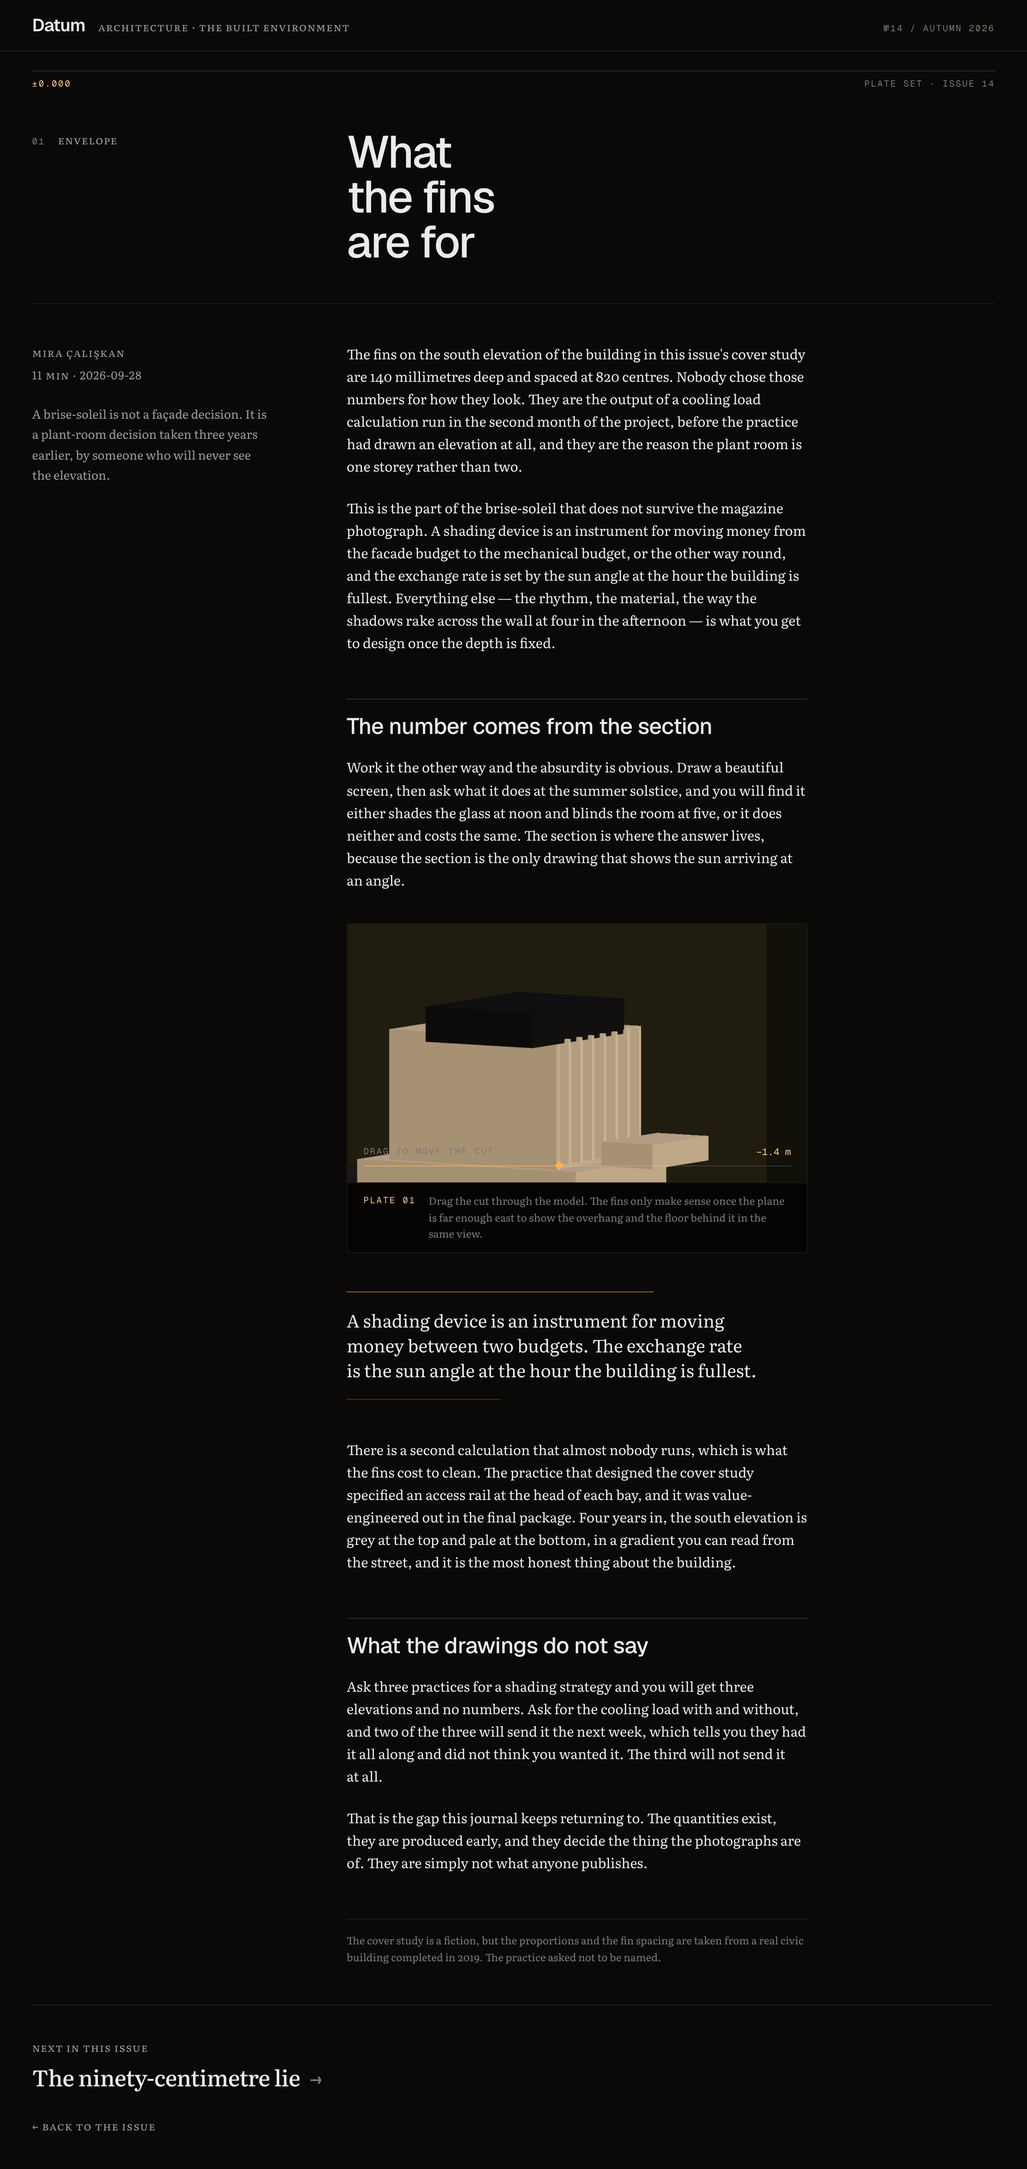
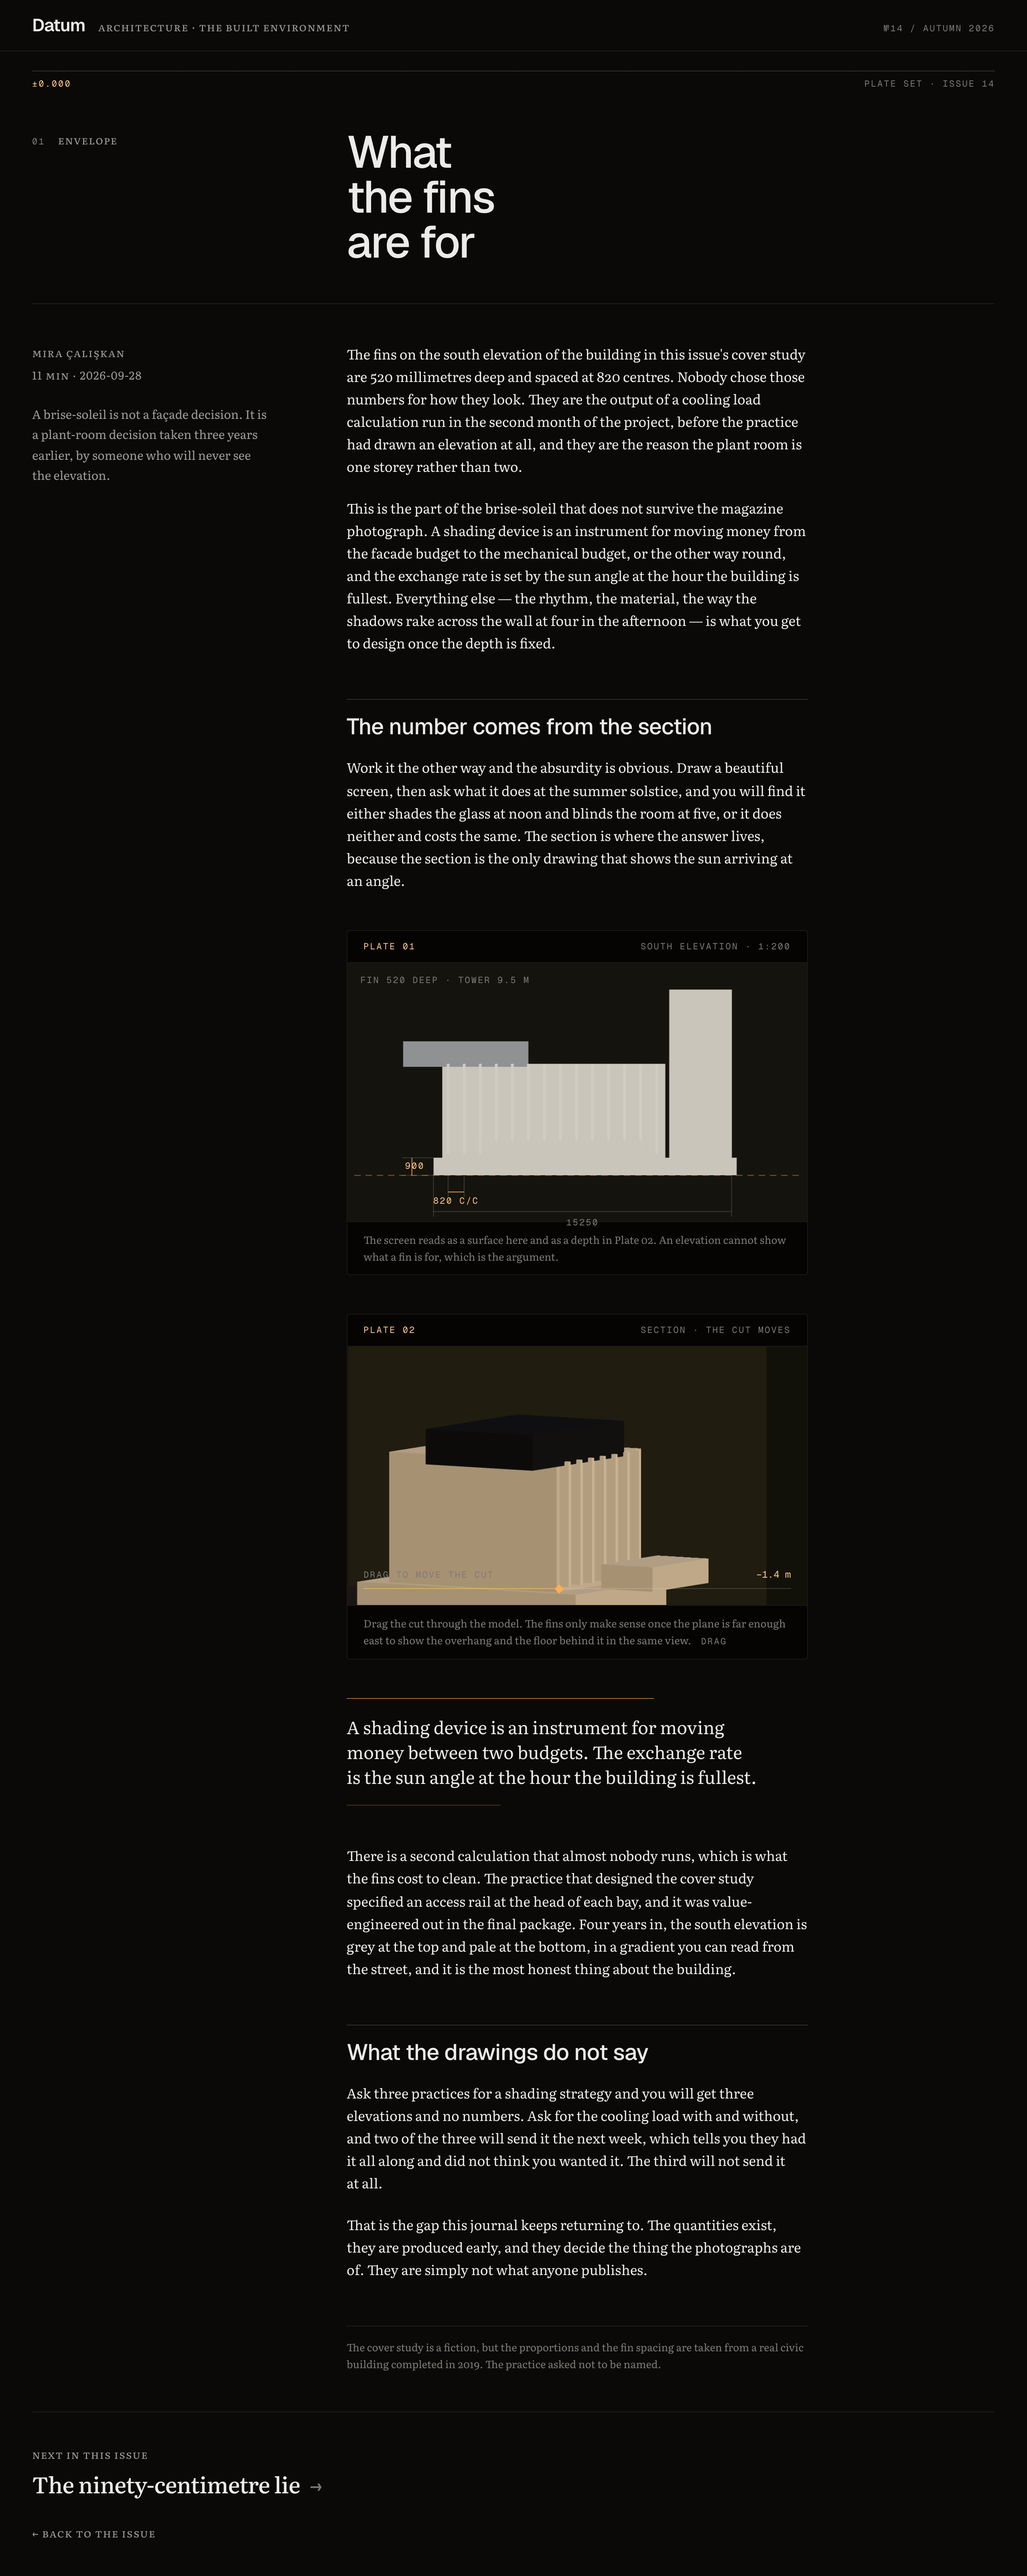
feat(plates): a drawing set, and the dimensions come from the model
One figure becomes numbered plates in genuinely different drawing types, all
reading the same MASSING array — an elevation and a section that disagreed
about where the tower is would be worse than having neither.

Plate 01 is a true elevation and is the one plate you cannot touch. Three
draggable figures in a row stop being drawings and become toys, and an
elevation's whole value is that it is flat, square-on and measurable. Plate 02
is the section, where the cut moves. The caption states the argument the issue
is making: the screen reads as a surface in one and as a depth in the other.

The dimensions are not drawn over a picture. They are computed from MASSING and
FINS through the same world-to-screen mapping the orthographic camera uses, so
a dimension cannot disagree with what it dimensions — the journal's own thesis
applied to its own figures.

Which immediately caught one. The prose said the fins were "140 millimetres
deep"; the data says the blade projects 520. The number in the article is now
520, and it is the model that decided it.

Three framing fixes, each found by looking rather than by reading the code:
- R3F aims the camera at the origin unless told otherwise, so the first
  "elevation" was tilted and cropped the tower. An elevation that is not
  square-on is not an elevation.
- Dimensions ran across the building. They belong outside it, on offset lines
  with extension lines, which is both the convention and the only arrangement
  that does not collide.
[…]

diff --git a/src/components/three/plates/ElevationPlate.tsx b/src/components/three/plates/ElevationPlate.tsx
@@ -1,0 +1,163 @@
+"use client"
+
+import { Canvas } from "@react-three/fiber"
+
+import { FINS, MASSING } from "@/lib/massing"
+import { Model } from "@/components/three/plates/Model"
+import { PlateFrame } from "@/components/three/plates/PlateFrame"
+
+/**
+ * A true elevation, locked.
+ *
+ * Deliberately the one plate you cannot touch. Three draggable figures in a row stop being
+ * drawings and become toys, and an elevation is the drawing whose whole value is that it is
+ * flat, square-on and measurable — rotating it would destroy the thing it is for.
+ *
+ * The dimension strings are not drawn by hand over a picture. They are computed from the same
+ * MASSING and FINS arrays the geometry comes from, through the same world-to-screen mapping the
+ * orthographic camera uses, so a dimension cannot disagree with what it is dimensioning. That is
+ * the journal's own thesis — the quantities decide the thing, and they are what nobody publishes
+ * — applied to its own figures.
+ */
+
+/**
+ * World units visible across the plate. Fixed, so the mapping below is exact — and chosen with
+ * room OUTSIDE the building, because that is where dimensions belong. The first version ran them
+ * across the elevation itself, which is how you annotate a photograph, not a drawing.
+ */
+const VIEW_W = 23.5
+const CENTRE = { x: -0.4, y: 4.25 }
+const ASPECT = 16 / 9
+
+const VIEW_H = VIEW_W / ASPECT
+/** World x,y → fraction of the plate, 0–1 from its top left. */
+const fx = (x: number) => (x - CENTRE.x) / VIEW_W + 0.5
+const fy = (y: number) => 0.5 - (y - CENTRE.y) / VIEW_H
+const pct = (n: number) => `${(n * 100).toFixed(3)}%`
+
+const plinth = MASSING.find((v) => v.id === "plinth")!
+const tower = MASSING.find((v) => v.id === "tower")!
+
+const plinthTop = plinth.position[1] + plinth.size[1] / 2
+const towerTop = tower.position[1] + tower.size[1] / 2
+const finPitch = FINS[1].position[0] - FINS[0].position[0]
+const finTop = FINS[0].position[1] + FINS[0].size[1] / 2
+const buildingLeft = plinth.position[0] - plinth.size[0] / 2
+const buildingRight = tower.position[0] + tower.size[0] / 2
+/*
+ * Horizontal dimensions stack below the elevation as a chain — parts on the inner line, overall
+ * on the outer — which is how a drawing is dimensioned and also the only place they do not
+ * collide. The fin pitch was first set above the screen and landed squarely on the cantilever,
+ * which projects over it.
+ */
+const DIM_INNER = -0.85
+const DIM_OUTER = -1.85
+const DIM_LEFT = buildingLeft - 1.6
+const finDepth = FINS[0].size[2]
+
+export function ElevationPlate({ plate }: { plate: number }) {
+  return (
+    <PlateFrame
+      plate={plate}
+      type="south elevation · 1:200"
+      caption="The screen reads as a surface here and as a depth in Plate 02. An elevation cannot show what a fin is for, which is the argument."
+    >
+      <div className="relative aspect-[16/9] w-full">
+        <Canvas
+          orthographic
+          dpr={[1, 2]}
+          camera={{ position: [CENTRE.x, CENTRE.y, 60], zoom: 50, near: 0.1, far: 220 }}
+          onCreated={({ camera, size }) => {
+            // Square-on, or it is not an elevation. Without this R3F aims the camera at the
+            // origin, which tilts the view and crops the tower — the first render did exactly
+            // that and the drawing stopped being a drawing.
+            camera.lookAt(CENTRE.x, CENTRE.y, 0)
+            // zoom is pixels per world unit: fix it so VIEW_W is exactly what is visible.
+            camera.zoom = size.width / VIEW_W
+            camera.updateProjectionMatrix()
+          }}
+          resize={{ scroll: false }}
+        >
+          <color attach="background" args={["#15130d"]} />
+          {/* Flat, even light: an elevation is inked, not rendered. */}
+          <ambientLight intensity={1.5} />
+          <directionalLight position={[0, 6, 40]} intensity={1.1} color="#fff2dd" />
+          <directionalLight position={[-18, 10, 12]} intensity={0.22} color="#9fb6e0" />
+          <Model palette="line" />
+        </Canvas>
+
+        {/* The dimensions, outside the drawing and on their own offsets, with extension lines. */}
+        <svg
+          aria-hidden="true"
+          className="pointer-events-none absolute inset-0 h-full w-full"
+          preserveAspectRatio="none"
+        >
+          {/* Datum: the line the whole issue is named for, running clear of the building. */}
+          <line
+            x1="1.5%" y1={pct(fy(0))} x2="98.5%" y2={pct(fy(0))}
+            stroke="var(--sun)" strokeOpacity="0.45" strokeWidth="1" strokeDasharray="8 6"
+          />
+
+          {/* Plinth height, dimensioned to the left of the building. */}
+          <line x1={pct(fx(DIM_LEFT))} y1={pct(fy(0))} x2={pct(fx(buildingLeft))} y2={pct(fy(0))}
+            stroke="var(--rule-strong)" strokeWidth="1" />
+          <line x1={pct(fx(DIM_LEFT))} y1={pct(fy(plinthTop))} x2={pct(fx(buildingLeft))} y2={pct(fy(plinthTop))}
+            stroke="var(--rule-strong)" strokeWidth="1" />
+          <line x1={pct(fx(DIM_LEFT + 0.5))} y1={pct(fy(0))} x2={pct(fx(DIM_LEFT + 0.5))} y2={pct(fy(plinthTop))}
+            stroke="var(--sun)" strokeOpacity="0.85" strokeWidth="1" />
+
+          {/* Inner line: the fin pitch, with extension lines run down from the fins themselves. */}
+          {[FINS[0], FINS[1]].map((fin) => (
+            <line key={fin.id}
+              x1={pct(fx(fin.position[0]))} y1={pct(fy(0))}
+              x2={pct(fx(fin.position[0]))} y2={pct(fy(DIM_INNER - 0.25))}
+              stroke="var(--rule-strong)" strokeWidth="1" />
+          ))}
+          <line
+            x1={pct(fx(FINS[0].position[0]))} y1={pct(fy(DIM_INNER))}
+            x2={pct(fx(FINS[1].position[0]))} y2={pct(fy(DIM_INNER))}
+            stroke="var(--sun)" strokeOpacity="0.9" strokeWidth="1"
+          />
+
+          {/* Outer line: overall width. */}
+          {[buildingLeft, buildingRight].map((x) => (
+            <line key={x} x1={pct(fx(x))} y1={pct(fy(0))} x2={pct(fx(x))} y2={pct(fy(DIM_OUTER - 0.25))}
+              stroke="var(--rule-strong)" strokeWidth="1" />
+          ))}
+          <line
+            x1={pct(fx(buildingLeft))} y1={pct(fy(DIM_OUTER))}
+            x2={pct(fx(buildingRight))} y2={pct(fy(DIM_OUTER))}
+            stroke="var(--rule-strong)" strokeWidth="1"
+          />
+        </svg>
+
+        {/* Figures as HTML, so they take the instrument voice and stay selectable. */}
+        <span
+          className="instrument tnum text-sun-ink absolute -translate-y-1/2"
+          style={{ left: pct(fx(DIM_LEFT + 0.15)), top: pct(fy(plinthTop / 2)) }}
+        >
+          {(plinthTop * 1000).toFixed(0)}
+        </span>
+        <span
+          className="instrument tnum text-sun-ink absolute -translate-x-1/2"
+          style={{
+            left: pct((fx(FINS[0].position[0]) + fx(FINS[1].position[0])) / 2),
+            top: pct(fy(DIM_INNER - 0.1)),
+          }}
+        >
+          {(finPitch * 1000).toFixed(0)} c/c
+        </span>
+        <span
+          className="instrument tnum absolute -translate-x-1/2"
+          style={{ left: pct((fx(buildingLeft) + fx(buildingRight)) / 2), top: pct(fy(DIM_OUTER - 0.2)) }}
+        >
+          {((buildingRight - buildingLeft) * 1000).toFixed(0)}
+        </span>
+        {/* The notes a title block carries, kept out of the dimension zone entirely. */}
+        <span className="instrument tnum absolute top-3 left-4">
+          fin {(finDepth * 1000).toFixed(0)} deep · tower {towerTop.toFixed(1)} m
+        </span>
+      </div>
+    </PlateFrame>
+  )
+}

diff --git a/src/components/three/plates/Model.tsx b/src/components/three/plates/Model.tsx
@@ -1,0 +1,59 @@
+"use client"
+
+import * as THREE from "three"
+
+import { FINS, MASSING } from "@/lib/massing"
+
+/**
+ * The building, once.
+ *
+ * Every plate draws the same volumes from the same array — only the camera, the light and the
+ * clipping change. That is what makes it a drawing set rather than four illustrations: an
+ * elevation and a section that disagreed about where the tower is would be worse than having
+ * neither.
+ */
+export function Model({
+  clip,
+  palette = "render",
+  only,
+}: {
+  clip?: THREE.Plane[]
+  /** `render` is lit massing; `line` is the flat, even fill a drawing is inked in. */
+  palette?: "render" | "line"
+  /** Draw a single volume alone, for a detail plate. */
+  only?: string
+}) {
+  const concrete = palette === "line" ? "#d7d1c4" : "#c3bcae"
+  const glass = palette === "line" ? "#8d9299" : "#333942"
+  const rough = palette === "line" ? 1 : 0.9
+  const volumes = only ? MASSING.filter((v) => v.id === only) : MASSING
+  const fins = only ? (only === "slab" ? FINS : []) : FINS
+
+  return (
+    <group>
+      {volumes.map((volume) => (
+        <mesh key={volume.id} position={[...volume.position]} castShadow receiveShadow>
+          <boxGeometry args={[...volume.size]} />
+          <meshStandardMaterial
+            color={volume.glazing > 0.4 ? glass : concrete}
+            roughness={volume.glazing > 0.4 ? (palette === "line" ? 1 : 0.18) : rough}
+            metalness={volume.glazing > 0.4 && palette === "render" ? 0.45 : 0}
+            side={clip ? THREE.DoubleSide : THREE.FrontSide}
+            clippingPlanes={clip}
+          />
+        </mesh>
+      ))}
+      {fins.map((fin) => (
+        <mesh key={fin.id} position={[...fin.position]} castShadow receiveShadow>
+          <boxGeometry args={[...fin.size]} />
+          <meshStandardMaterial
+            color={palette === "line" ? "#e3ddd0" : "#cec8ba"}
+            roughness={rough}
+            side={clip ? THREE.DoubleSide : THREE.FrontSide}
+            clippingPlanes={clip}
+          />
+        </mesh>
+      ))}
+    </group>
+  )
+}

diff --git a/src/data/bodies.ts b/src/data/bodies.ts
@@ -7,7 +7,7 @@ export type Block =
   | { type: "p"; text: string }
   | { type: "h"; text: string }
   | { type: "pull"; text: string }
-  | { type: "figure"; kind: "section"; caption: string }
+  | { type: "figure"; kind: "section" | "elevation"; caption: string }
   | { type: "dimension"; value: string; caption: string }
   | { type: "note"; text: string }
 
@@ -15,7 +15,7 @@ export const BODIES: Record<string, readonly Block[]> = {
   "what-the-fins-are-for": [
     {
       type: "p",
-      text: "The fins on the south elevation of the building in this issue's cover study are 140 millimetres deep and spaced at 820 centres. Nobody chose those numbers for how they look. They are the output of a cooling load calculation run in the second month of the project, before the practice had drawn an elevation at all, and they are the reason the plant room is one storey rather than two.",
+      text: "The fins on the south elevation of the building in this issue's cover study are 520 millimetres deep and spaced at 820 centres. Nobody chose those numbers for how they look. They are the output of a cooling load calculation run in the second month of the project, before the practice had drawn an elevation at all, and they are the reason the plant room is one storey rather than two.",
     },
     {
       type: "p",
@@ -26,6 +26,7 @@ export const BODIES: Record<string, readonly Block[]> = {
       type: "p",
       text: "Work it the other way and the absurdity is obvious. Draw a beautiful screen, then ask what it does at the summer solstice, and you will find it either shades the glass at noon and blinds the room at five, or it does neither and costs the same. The section is where the answer lives, because the section is the only drawing that shows the sun arriving at an angle.",
     },
+    { type: "figure", kind: "elevation", caption: "" },
     {
       type: "figure",
       kind: "section",

diff --git a/src/components/three/SectionStudy.tsx b/src/components/three/SectionStudy.tsx
@@ -15,6 +15,7 @@ import { Canvas, useFrame } from "@react-three/fiber"
 import { useCallback, useEffect, useMemo, useRef } from "react"
 import * as THREE from "three"
 
+import { PlateFrame } from "@/components/three/plates/PlateFrame"
 import { FINS, MASSING } from "@/lib/massing"
 
 /**
@@ -117,7 +118,7 @@ export function SectionStudy({ caption, plate }: { caption: string; plate: numbe
     MIN_X + ((clientX - box.left) / box.width) * (MAX_X - MIN_X)
 
   return (
-    <figure className="border-rule bg-bg-deep my-10 overflow-hidden rounded-md border">
+    <PlateFrame plate={plate} type="section · the cut moves" caption={caption} hint="drag">
       <div
         className="relative aspect-[16/9] w-full touch-none"
         onPointerDown={(e) => {
@@ -164,13 +165,6 @@ export function SectionStudy({ caption, plate }: { caption: string; plate: numbe
           </div>
         </div>
       </div>
-      {/* Numbered as a plate, cited the way a drawing set is, not captioned like a photo. */}
-      <figcaption className="border-rule flex gap-4 border-t px-5 py-3">
-        <span className="instrument tnum text-sun-ink shrink-0">
-          Plate {String(plate).padStart(2, "0")}
-        </span>
-        <span className="text-fg-faint text-sm">{caption}</span>
-      </figcaption>
-    </figure>
+    </PlateFrame>
   )
 }

diff --git a/src/components/three/plates/PlateFrame.tsx b/src/components/three/plates/PlateFrame.tsx
@@ -1,0 +1,35 @@
+/**
+ * The sheet a plate is drawn on.
+ *
+ * Numbered and titled like a drawing set, with the drawing type stated, because the argument of
+ * this issue is that drawing type is a position — "the section drawing is the only honest one" —
+ * and a set of untitled pictures cannot make that argument.
+ */
+export function PlateFrame({
+  plate,
+  type,
+  caption,
+  hint,
+  children,
+}: {
+  plate: number
+  type: string
+  caption: string
+  /** Only present when the plate is interactive. A locked drawing says nothing. */
+  hint?: string
+  children: React.ReactNode
+}) {
+  return (
+    <figure className="border-rule bg-bg-deep my-12 overflow-hidden rounded-md border">
+      <div className="border-rule flex items-baseline justify-between border-b px-5 py-2.5">
+        <span className="instrument tnum text-sun-ink">Plate {String(plate).padStart(2, "0")}</span>
+        <span className="instrument">{type}</span>
+      </div>
+      <div className="relative">{children}</div>
+      <figcaption className="border-rule text-fg-faint border-t px-5 py-3 text-sm">
+        {caption}
+        {hint ? <span className="instrument ml-3">{hint}</span> : null}
+      </figcaption>
+    </figure>
+  )
+}

diff --git a/src/components/ArticleBody.tsx b/src/components/ArticleBody.tsx
@@ -6,6 +6,9 @@ import type { Block } from "@/data/bodies"
 const SectionStudy = dynamic(() =>
   import("@/components/three/SectionStudy").then((m) => m.SectionStudy),
 )
+const ElevationPlate = dynamic(() =>
+  import("@/components/three/plates/ElevationPlate").then((m) => m.ElevationPlate),
+)
 
 /**
  * The body, set as a sheet rather than wrapped in an effect.
@@ -55,10 +58,14 @@ export function ArticleBody({ blocks }: { blocks: readonly Block[] }) {
           case "dimension":
             return <Dimension key={i} value={block.value} caption={block.caption} />
 
-          case "figure":
-            return (
-              <SectionStudy key={i} caption={block.caption} plate={plates.indexOf(i) + 1} />
+          case "figure": {
+            const number = plates.indexOf(i) + 1
+            return block.kind === "elevation" ? (
+              <ElevationPlate key={i} plate={number} />
+            ) : (
+              <SectionStudy key={i} caption={block.caption} plate={number} />
             )
+          }
 
           default:
             return (
